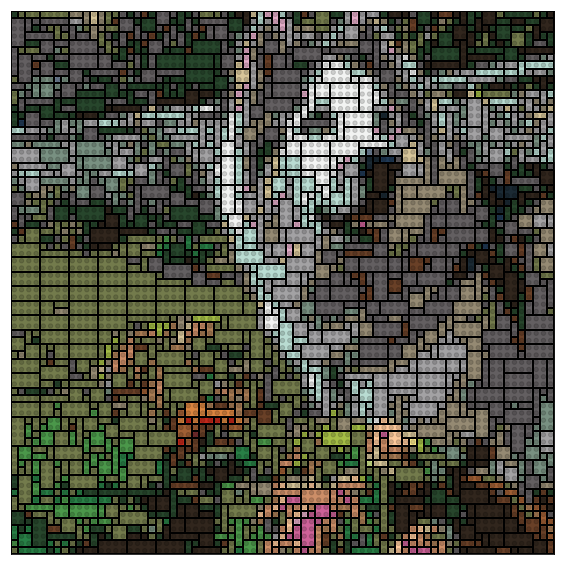
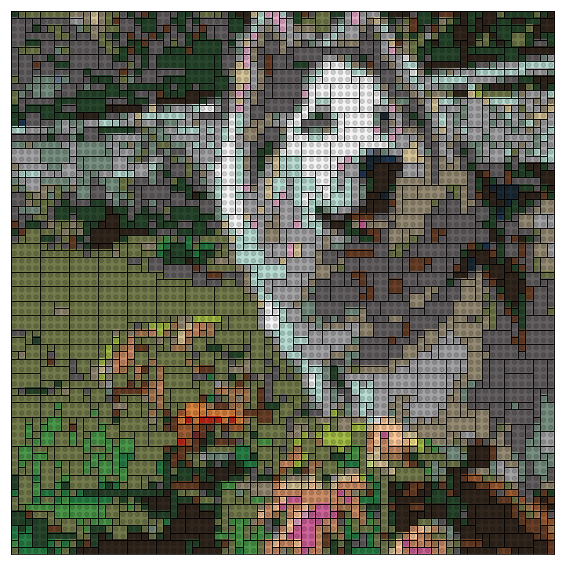
Reduce border thickness

Changed region(s): [[0.0301, 0.0301, 0.9947, 0.9929]]

diff --git a/LEGO_functions.py b/LEGO_functions.py
@@ -154,7 +154,7 @@ def legoize_larger_bricks(lego_df):
                     for index, row in groups.iterrows():
                         ax.add_patch(patches.Rectangle(
                             (wgroup*row.width-0.5-j, hgroup*row.height-0.5-i), 
-                            wgroup, hgroup, fill=False, lw=2, color='black'))
+                            wgroup, hgroup, fill=False, lw=0.7, color='black'))
 
                     # For removing from subsequent searches. 
                     df_groups = (lego_df[remain]
